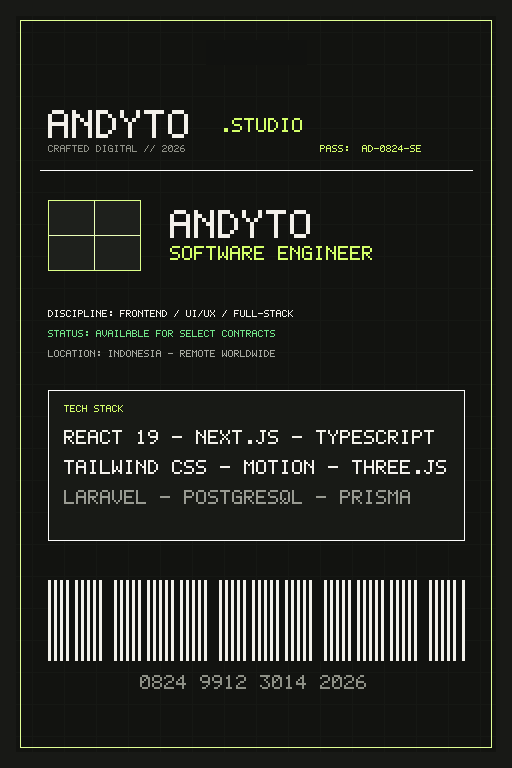
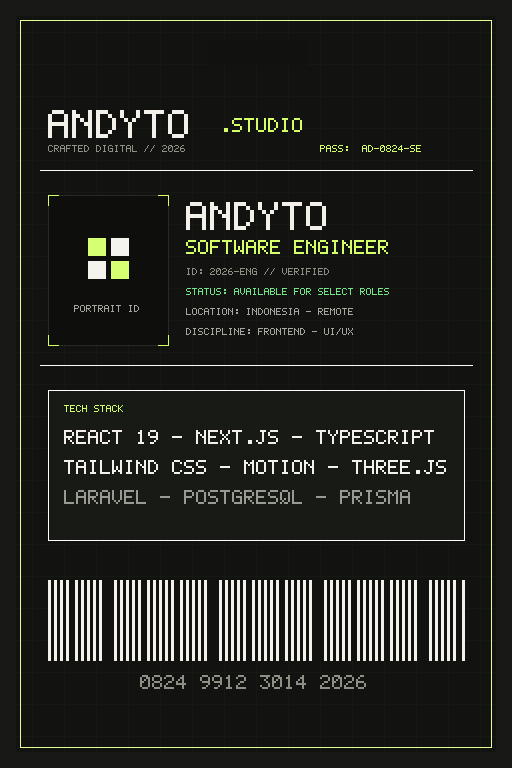
feat(lanyard): integrate replaceable personal portrait into 3D ID badge texture

Changed region(s): [[0.1562, 0.25, 0.75, 0.4688], [0.0938, 0.4062, 0.1875, 0.4688], [0.0938, 0.25, 0.125, 0.3125]]

diff --git a/src/components/react-bits/Lanyard.tsx b/src/components/react-bits/Lanyard.tsx
@@ -21,6 +21,7 @@ interface PathLike {
 export interface LanyardProps {
   frontImage?: string;
   backImage?: string;
+  portraitImage?: string;
   imageFit?: ImageFit;
   cardColor?: string;
   orientation?: Orientation;
@@ -46,6 +47,7 @@ export interface LanyardProps {
 interface Settings {
   frontImage?: string;
   backImage?: string;
+  portraitImage?: string;
   imageFit: ImageFit;
   cardColor: string;
   orientation: Orientation;
@@ -70,6 +72,7 @@ interface Images {
   front: HTMLImageElement | null;
   back: HTMLImageElement | null;
   strap: HTMLImageElement | null;
+  portrait: HTMLImageElement | null;
 }
 
 interface CardLayout {
@@ -589,12 +592,84 @@ const drawFitted = (
   ctx.drawImage(image, (width - w) / 2, (height - h) / 2, w, h);
 };
 
-const paintFace = (canvas: HTMLCanvasElement, image: HTMLImageElement | null, color: Rgb, fit: ImageFit) => {
+const paintFace = (
+  canvas: HTMLCanvasElement,
+  image: HTMLImageElement | null,
+  color: Rgb,
+  fit: ImageFit,
+  portrait?: HTMLImageElement | null
+) => {
   const ctx = canvas.getContext('2d');
   if (!ctx) return;
   ctx.fillStyle = toCss(color);
   ctx.fillRect(0, 0, canvas.width, canvas.height);
-  if (image) drawFitted(ctx, image, canvas.width, canvas.height, fit);
+  if (image) {
+    drawFitted(ctx, image, canvas.width, canvas.height, fit);
+
+    // If portrait image is supplied and successfully loaded, composite into front badge photo slot
+    if (portrait) {
+      const scale = (fit === 'contain' ? Math.min : Math.max)(
+        canvas.width / image.width,
+        canvas.height / image.height
+      );
+      const fw = image.width * scale;
+      const fh = image.height * scale;
+      const ox = (canvas.width - fw) / 2;
+      const oy = (canvas.height - fh) / 2;
+
+      // Badge layout coordinates in 512x768 badge space:
+      // Photo frame: x=48, y=195, width=120, height=150 (4:5 portrait ratio)
+      const px = ox + 48 * scale;
+      const py = oy + 195 * scale;
+      const pw = 120 * scale;
+      const ph = 150 * scale;
+      const radius = 8 * scale;
+
+      // 1. Clip photo to rounded rectangle frame
+      ctx.save();
+      ctx.beginPath();
+      traceRoundedRect(ctx, px, py, pw, ph, radius);
+      ctx.clip();
+
+      // 2. Object-fit: cover with upper-third vertical bias to keep face visible
+      const srcW = portrait.width;
+      const srcH = portrait.height;
+      const srcAspect = srcW / srcH;
+      const targetAspect = pw / ph;
+
+      let sx = 0;
+      let sy = 0;
+      let sw = srcW;
+      let sh = srcH;
+
+      if (srcAspect > targetAspect) {
+        sw = srcH * targetAspect;
+        sx = (srcW - sw) / 2;
+      } else {
+        sh = srcW / targetAspect;
+        const excessH = srcH - sh;
+        sy = Math.max(0, Math.min(excessH, excessH * 0.22));
+      }
+
+      ctx.drawImage(portrait, sx, sy, sw, sh, px, py, pw, ph);
+      ctx.restore();
+
+      // 3. Crisp frame border & Crafted Digital signal lime accent line
+      ctx.save();
+      ctx.beginPath();
+      traceRoundedRect(ctx, px, py, pw, ph, radius);
+      ctx.lineWidth = Math.max(1, 1.5 * scale);
+      ctx.strokeStyle = '#252A22';
+      ctx.stroke();
+
+      ctx.beginPath();
+      traceRoundedRect(ctx, px + 1.5, py + 1.5, pw - 3, ph - 3, Math.max(0, radius - 1.5));
+      ctx.lineWidth = Math.max(1, 0.8 * scale);
+      ctx.strokeStyle = 'rgba(212, 255, 105, 0.45)';
+      ctx.stroke();
+      ctx.restore();
+    }
+  }
 };
 
 const paintStrap = (canvas: HTMLCanvasElement, image: HTMLImageElement | null, color: Rgb) => {
@@ -870,6 +945,7 @@ const stepSimulation = (sim: Simulation, dt: number, physics: Physics, time: num
 const Lanyard = ({
   frontImage,
   backImage,
+  portraitImage,
   imageFit = 'cover',
   cardColor = '#ffffff',
   orientation = 'portrait',
@@ -895,6 +971,7 @@ const Lanyard = ({
   const initialSettings: Settings = {
     frontImage,
     backImage,
+    portraitImage,
     imageFit: imageFit === 'contain' ? 'contain' : 'cover',
     cardColor,
     orientation: orientation === 'landscape' ? 'landscape' : 'portrait',
@@ -921,6 +998,7 @@ const Lanyard = ({
     settingsRef.current = {
       frontImage,
       backImage,
+      portraitImage,
       imageFit: imageFit === 'contain' ? 'contain' : 'cover',
       cardColor,
       orientation: orientation === 'landscape' ? 'landscape' : 'portrait',
@@ -974,7 +1052,7 @@ const Lanyard = ({
     scene.add(keyLight, fillLight);
 
     const imageCache = new Map<string, Promise<HTMLImageElement | null>>();
-    const images: Images = { front: null, back: null, strap: null };
+    const images: Images = { front: null, back: null, strap: null, portrait: null };
     const frontCanvas = document.createElement('canvas');
     const backCanvas = document.createElement('canvas');
     const strapCanvas = document.createElement('canvas');
@@ -1082,7 +1160,7 @@ const Lanyard = ({
         frontTexture.dispose();
         backTexture.dispose();
       }
-      paintFace(frontCanvas, images.front, color, s.imageFit);
+      paintFace(frontCanvas, images.front, color, s.imageFit, images.portrait);
       paintFace(backCanvas, images.back || images.front, color, s.imageFit);
       frontTexture.needsUpdate = true;
       backTexture.needsUpdate = true;
@@ -1152,23 +1230,25 @@ const Lanyard = ({
         }
       }
 
-      const imageKey = `${s.frontImage}|${s.backImage}|${s.strapImage}`;
+      const imageKey = `${s.frontImage}|${s.backImage}|${s.strapImage}|${s.portraitImage}`;
       if (imageKey !== applied.imageKey) {
         const token = ++imageToken;
         Promise.all([
           loadImage(imageCache, s.frontImage),
           loadImage(imageCache, s.backImage),
-          loadImage(imageCache, s.strapImage)
-        ]).then(([front, back, strap]) => {
+          loadImage(imageCache, s.strapImage),
+          loadImage(imageCache, s.portraitImage)
+        ]).then(([front, back, strap, portrait]) => {
           if (!alive || token !== imageToken) return;
           images.front = front;
           images.back = back;
           images.strap = strap;
+          images.portrait = portrait;
           paintFaces();
           repaintStrap();
         });
       }
-      const faceKey = `${layoutKey}|${s.cardColor}|${s.imageFit}`;
+      const faceKey = `${layoutKey}|${s.cardColor}|${s.imageFit}|${s.portraitImage}`;
       if (faceKey !== applied.faceKey) paintFaces();
       if (s.strapColor !== applied.strapColor) repaintStrap();
 

diff --git a/src/components/home/HeroSection.tsx b/src/components/home/HeroSection.tsx
@@ -54,7 +54,7 @@ export function HeroSection() {
           {/* Left Column (or Mobile Stack Top): Personal positioning & Split Text headline */}
           <motion.div
             variants={containerStaggerVariants}
-            initial="hidden"
+            initial={false}
             animate="visible"
             className="lg:col-span-6 space-y-6 sm:space-y-7"
           >
@@ -112,7 +112,7 @@ export function HeroSection() {
 
           {/* Right Column (or Mobile Stack Below): React Bits 3D Interactive Lanyard suspended against background */}
           <motion.div
-            initial={{ opacity: 0, scale: 0.94, y: 24 }}
+            initial={false}
             animate={{ opacity: 1, scale: 1, y: 0 }}
             transition={{ ...gentleSpring, delay: 0.2 }}
             className="lg:col-span-6 relative flex items-center justify-center w-full min-h-[380px] sm:min-h-[460px] md:min-h-[520px] lg:min-h-[580px]"
@@ -121,6 +121,7 @@ export function HeroSection() {
               <Lanyard
                 frontImage="/card-front.png"
                 backImage="/card-back.png"
+                portraitImage={siteConfig.identity?.portrait || siteConfig.portrait}
                 strapImage="/band.png"
                 imageFit="cover"
                 cardColor="#ffffff"
@@ -151,14 +152,6 @@ export function HeroSection() {
           transition={{ delay: 0.8, duration: 0.5 }}
           className="mt-10 sm:mt-14 flex items-center justify-between text-xs font-mono text-[#8E9086] pt-5 border-t border-[rgba(242,240,233,0.06)]"
         >
-          <div className="flex items-center gap-2">
-            <span className="w-2 h-2 rounded-full bg-[#D4FF69] animate-pulse" />
-            <span>Available for Select Projects & Engineering Roles</span>
-          </div>
-          <div className="hidden sm:flex items-center gap-1.5 text-[#6B6D63]">
-            <span>Scroll to explore</span>
-            <ArrowDown className="w-3.5 h-3.5 animate-bounce" />
-          </div>
         </motion.div>
       </Container>
     </section>

diff --git a/src/data/site-config.ts b/src/data/site-config.ts
@@ -1,6 +1,12 @@
 export interface SiteConfig {
   name: string;
   role: string;
+  identity: {
+    name: string;
+    role: string;
+    portrait: string;
+  };
+  portrait?: string;
   disciplines: string[];
   tagline: string;
   statement: string;
@@ -32,6 +38,12 @@ export interface SiteConfig {
 export const siteConfig: SiteConfig = {
   name: "Andyto",
   role: "Product-minded Software Engineer",
+  identity: {
+    name: "Andyto",
+    role: "Product-minded Software Engineer",
+    portrait: "/images/profile/andyto-portrait.webp",
+  },
+  portrait: "/images/profile/andyto-portrait.webp",
   disciplines: [
     "Frontend Engineering",
     "UI/UX Implementation",
